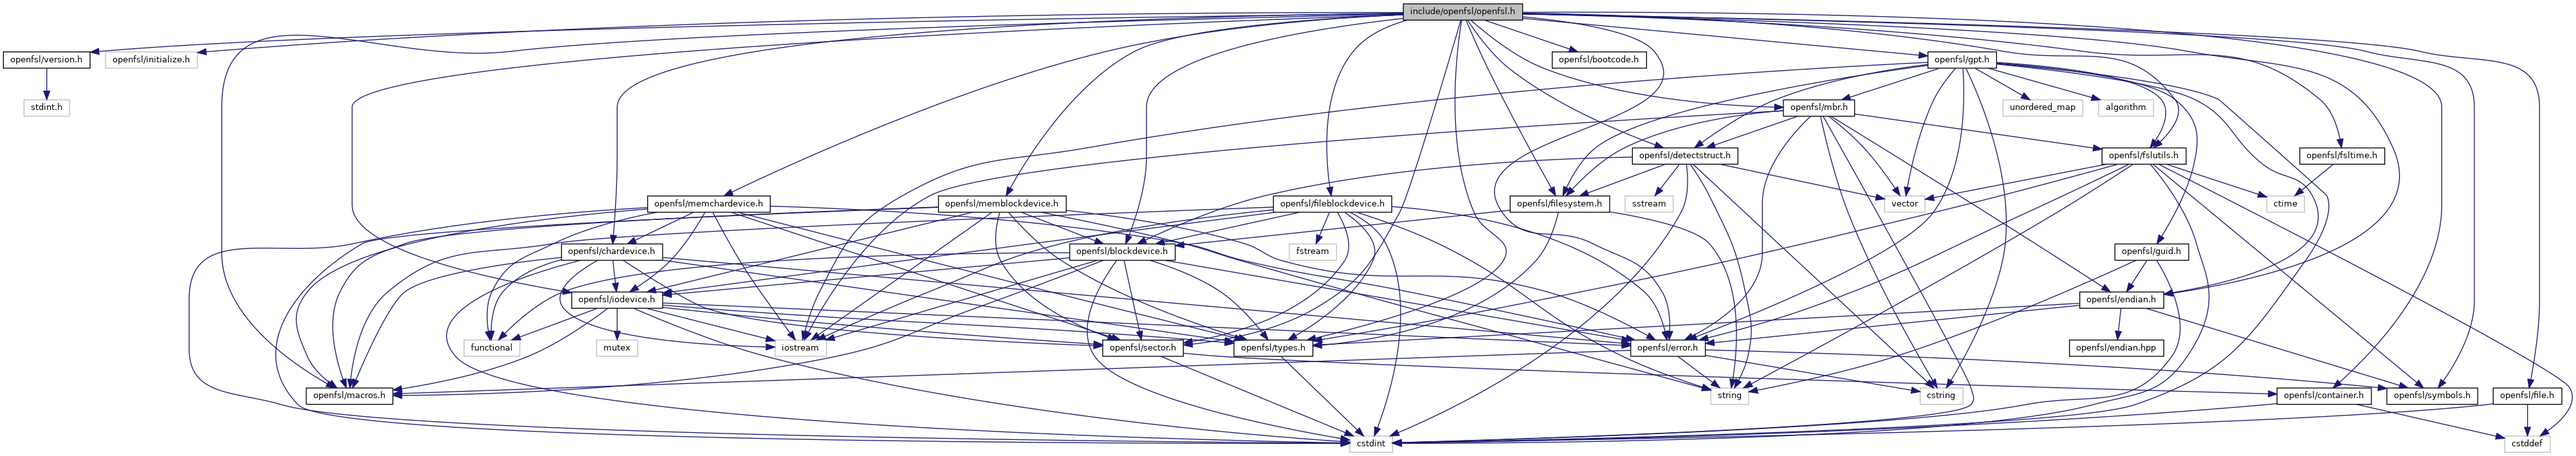
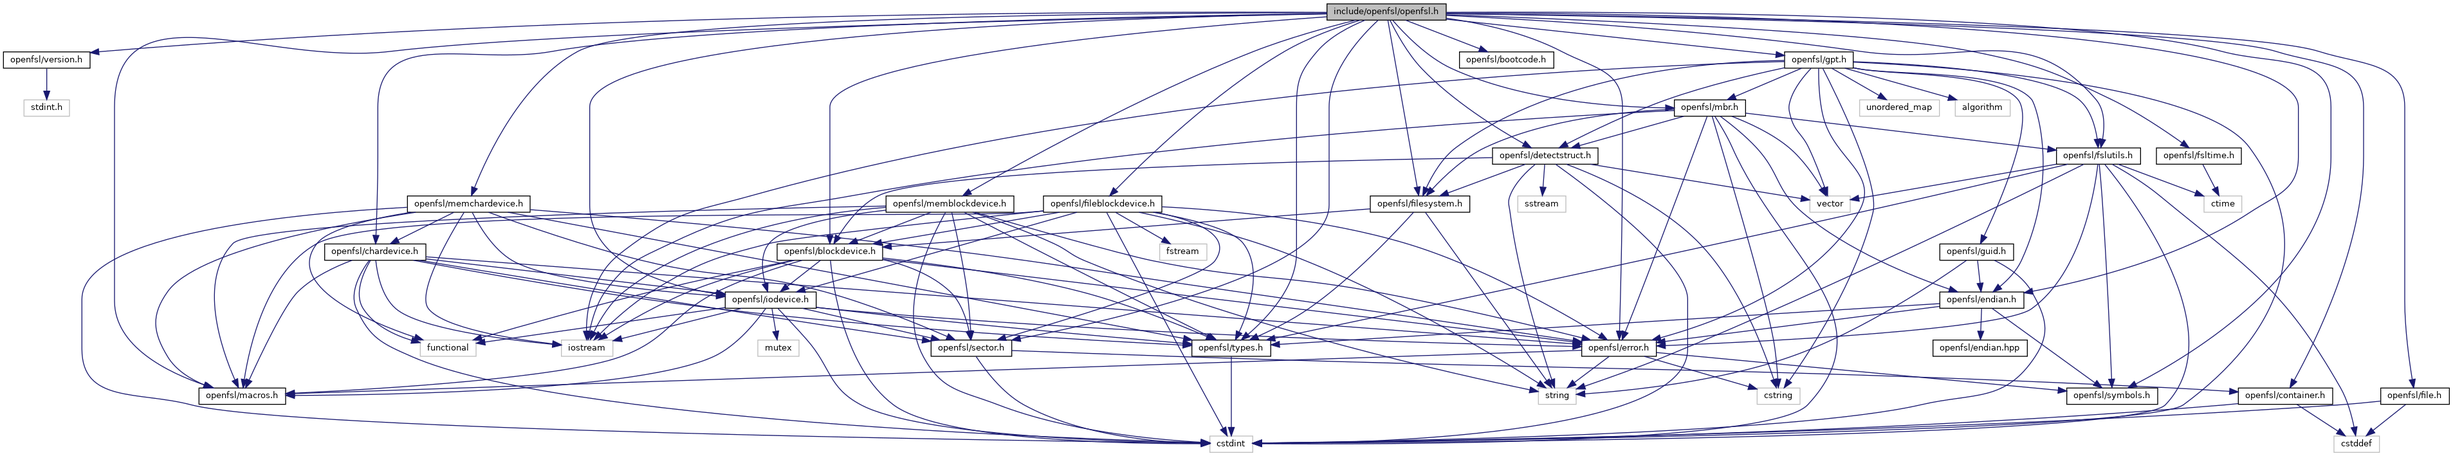
Deploying to html-docs from @ kms1212/OpenFSL@87007d5335cf3212a3e2a806a983f78076ea9c0f 🚀

diff --git a/openfsl_8h_source.html b/openfsl_8h_source.html
@@ -114,37 +114,36 @@ $(document).ready(function(){initNavTree('openfsl_8h_source.html',''); initResiz
 <div class="line"><a name="l00015"></a><span class="lineno">   15</span>&#160;<span class="preprocessor">#endif</span></div>
 <div class="line"><a name="l00016"></a><span class="lineno">   16</span>&#160; </div>
 <div class="line"><a name="l00017"></a><span class="lineno">   17</span>&#160;<span class="preprocessor">#include &quot;<a class="code" href="version_8h.html">openfsl/version.h</a>&quot;</span></div>
-<div class="line"><a name="l00018"></a><span class="lineno">   18</span>&#160;<span class="preprocessor">#include &quot;openfsl/initialize.h&quot;</span></div>
-<div class="line"><a name="l00019"></a><span class="lineno">   19</span>&#160; </div>
-<div class="line"><a name="l00020"></a><span class="lineno">   20</span>&#160;<span class="preprocessor">#include &quot;<a class="code" href="iodevice_8h.html">openfsl/iodevice.h</a>&quot;</span></div>
-<div class="line"><a name="l00021"></a><span class="lineno">   21</span>&#160;<span class="preprocessor">#include &quot;<a class="code" href="blockdevice_8h.html">openfsl/blockdevice.h</a>&quot;</span></div>
-<div class="line"><a name="l00022"></a><span class="lineno">   22</span>&#160;<span class="preprocessor">#include &quot;<a class="code" href="fileblockdevice_8h.html">openfsl/fileblockdevice.h</a>&quot;</span></div>
-<div class="line"><a name="l00023"></a><span class="lineno">   23</span>&#160;<span class="preprocessor">#include &quot;<a class="code" href="chardevice_8h.html">openfsl/chardevice.h</a>&quot;</span></div>
-<div class="line"><a name="l00024"></a><span class="lineno">   24</span>&#160;<span class="preprocessor">#include &quot;<a class="code" href="memchardevice_8h.html">openfsl/memchardevice.h</a>&quot;</span></div>
-<div class="line"><a name="l00025"></a><span class="lineno">   25</span>&#160;<span class="preprocessor">#include &quot;<a class="code" href="memblockdevice_8h.html">openfsl/memblockdevice.h</a>&quot;</span></div>
-<div class="line"><a name="l00026"></a><span class="lineno">   26</span>&#160; </div>
-<div class="line"><a name="l00027"></a><span class="lineno">   27</span>&#160;<span class="preprocessor">#include &quot;<a class="code" href="bootcode_8h.html">openfsl/bootcode.h</a>&quot;</span></div>
-<div class="line"><a name="l00028"></a><span class="lineno">   28</span>&#160; </div>
-<div class="line"><a name="l00029"></a><span class="lineno">   29</span>&#160;<span class="preprocessor">#include &quot;<a class="code" href="container_8h.html">openfsl/container.h</a>&quot;</span></div>
-<div class="line"><a name="l00030"></a><span class="lineno">   30</span>&#160;<span class="preprocessor">#include &quot;<a class="code" href="sector_8h.html">openfsl/sector.h</a>&quot;</span></div>
-<div class="line"><a name="l00031"></a><span class="lineno">   31</span>&#160; </div>
-<div class="line"><a name="l00032"></a><span class="lineno">   32</span>&#160;<span class="preprocessor">#include &quot;<a class="code" href="detectstruct_8h.html">openfsl/detectstruct.h</a>&quot;</span></div>
-<div class="line"><a name="l00033"></a><span class="lineno">   33</span>&#160;<span class="preprocessor">#include &quot;<a class="code" href="mbr_8h.html">openfsl/mbr.h</a>&quot;</span></div>
-<div class="line"><a name="l00034"></a><span class="lineno">   34</span>&#160;<span class="preprocessor">#include &quot;<a class="code" href="gpt_8h.html">openfsl/gpt.h</a>&quot;</span></div>
-<div class="line"><a name="l00035"></a><span class="lineno">   35</span>&#160; </div>
-<div class="line"><a name="l00036"></a><span class="lineno">   36</span>&#160;<span class="preprocessor">#include &quot;<a class="code" href="file_8h.html">openfsl/file.h</a>&quot;</span></div>
-<div class="line"><a name="l00037"></a><span class="lineno">   37</span>&#160;<span class="preprocessor">#include &quot;<a class="code" href="filesystem_8h.html">openfsl/filesystem.h</a>&quot;</span></div>
-<div class="line"><a name="l00038"></a><span class="lineno">   38</span>&#160; </div>
-<div class="line"><a name="l00039"></a><span class="lineno">   39</span>&#160;<span class="preprocessor">#include &quot;<a class="code" href="endian_8h.html">openfsl/endian.h</a>&quot;</span></div>
-<div class="line"><a name="l00040"></a><span class="lineno">   40</span>&#160;<span class="preprocessor">#include &quot;<a class="code" href="fsltime_8h.html">openfsl/fsltime.h</a>&quot;</span></div>
-<div class="line"><a name="l00041"></a><span class="lineno">   41</span>&#160;<span class="preprocessor">#include &quot;<a class="code" href="fslutils_8h.html">openfsl/fslutils.h</a>&quot;</span></div>
-<div class="line"><a name="l00042"></a><span class="lineno">   42</span>&#160; </div>
-<div class="line"><a name="l00043"></a><span class="lineno">   43</span>&#160;<span class="preprocessor">#include &quot;<a class="code" href="macros_8h.html">openfsl/macros.h</a>&quot;</span></div>
-<div class="line"><a name="l00044"></a><span class="lineno">   44</span>&#160;<span class="preprocessor">#include &quot;<a class="code" href="symbols_8h.html">openfsl/symbols.h</a>&quot;</span></div>
-<div class="line"><a name="l00045"></a><span class="lineno">   45</span>&#160;<span class="preprocessor">#include &quot;<a class="code" href="types_8h.html">openfsl/types.h</a>&quot;</span></div>
-<div class="line"><a name="l00046"></a><span class="lineno">   46</span>&#160;<span class="preprocessor">#include &quot;<a class="code" href="error_8h.html">openfsl/error.h</a>&quot;</span></div>
-<div class="line"><a name="l00047"></a><span class="lineno">   47</span>&#160; </div>
-<div class="line"><a name="l00048"></a><span class="lineno">   48</span>&#160;<span class="preprocessor">#endif  // OPENFSL_OPENFSL_H_</span></div>
+<div class="line"><a name="l00018"></a><span class="lineno">   18</span>&#160; </div>
+<div class="line"><a name="l00019"></a><span class="lineno">   19</span>&#160;<span class="preprocessor">#include &quot;<a class="code" href="iodevice_8h.html">openfsl/iodevice.h</a>&quot;</span></div>
+<div class="line"><a name="l00020"></a><span class="lineno">   20</span>&#160;<span class="preprocessor">#include &quot;<a class="code" href="blockdevice_8h.html">openfsl/blockdevice.h</a>&quot;</span></div>
+<div class="line"><a name="l00021"></a><span class="lineno">   21</span>&#160;<span class="preprocessor">#include &quot;<a class="code" href="fileblockdevice_8h.html">openfsl/fileblockdevice.h</a>&quot;</span></div>
+<div class="line"><a name="l00022"></a><span class="lineno">   22</span>&#160;<span class="preprocessor">#include &quot;<a class="code" href="chardevice_8h.html">openfsl/chardevice.h</a>&quot;</span></div>
+<div class="line"><a name="l00023"></a><span class="lineno">   23</span>&#160;<span class="preprocessor">#include &quot;<a class="code" href="memchardevice_8h.html">openfsl/memchardevice.h</a>&quot;</span></div>
+<div class="line"><a name="l00024"></a><span class="lineno">   24</span>&#160;<span class="preprocessor">#include &quot;<a class="code" href="memblockdevice_8h.html">openfsl/memblockdevice.h</a>&quot;</span></div>
+<div class="line"><a name="l00025"></a><span class="lineno">   25</span>&#160; </div>
+<div class="line"><a name="l00026"></a><span class="lineno">   26</span>&#160;<span class="preprocessor">#include &quot;<a class="code" href="bootcode_8h.html">openfsl/bootcode.h</a>&quot;</span></div>
+<div class="line"><a name="l00027"></a><span class="lineno">   27</span>&#160; </div>
+<div class="line"><a name="l00028"></a><span class="lineno">   28</span>&#160;<span class="preprocessor">#include &quot;<a class="code" href="container_8h.html">openfsl/container.h</a>&quot;</span></div>
+<div class="line"><a name="l00029"></a><span class="lineno">   29</span>&#160;<span class="preprocessor">#include &quot;<a class="code" href="sector_8h.html">openfsl/sector.h</a>&quot;</span></div>
+<div class="line"><a name="l00030"></a><span class="lineno">   30</span>&#160; </div>
+<div class="line"><a name="l00031"></a><span class="lineno">   31</span>&#160;<span class="preprocessor">#include &quot;<a class="code" href="detectstruct_8h.html">openfsl/detectstruct.h</a>&quot;</span></div>
+<div class="line"><a name="l00032"></a><span class="lineno">   32</span>&#160;<span class="preprocessor">#include &quot;<a class="code" href="mbr_8h.html">openfsl/mbr.h</a>&quot;</span></div>
+<div class="line"><a name="l00033"></a><span class="lineno">   33</span>&#160;<span class="preprocessor">#include &quot;<a class="code" href="gpt_8h.html">openfsl/gpt.h</a>&quot;</span></div>
+<div class="line"><a name="l00034"></a><span class="lineno">   34</span>&#160; </div>
+<div class="line"><a name="l00035"></a><span class="lineno">   35</span>&#160;<span class="preprocessor">#include &quot;<a class="code" href="file_8h.html">openfsl/file.h</a>&quot;</span></div>
+<div class="line"><a name="l00036"></a><span class="lineno">   36</span>&#160;<span class="preprocessor">#include &quot;<a class="code" href="filesystem_8h.html">openfsl/filesystem.h</a>&quot;</span></div>
+<div class="line"><a name="l00037"></a><span class="lineno">   37</span>&#160; </div>
+<div class="line"><a name="l00038"></a><span class="lineno">   38</span>&#160;<span class="preprocessor">#include &quot;<a class="code" href="endian_8h.html">openfsl/endian.h</a>&quot;</span></div>
+<div class="line"><a name="l00039"></a><span class="lineno">   39</span>&#160;<span class="preprocessor">#include &quot;<a class="code" href="fsltime_8h.html">openfsl/fsltime.h</a>&quot;</span></div>
+<div class="line"><a name="l00040"></a><span class="lineno">   40</span>&#160;<span class="preprocessor">#include &quot;<a class="code" href="fslutils_8h.html">openfsl/fslutils.h</a>&quot;</span></div>
+<div class="line"><a name="l00041"></a><span class="lineno">   41</span>&#160; </div>
+<div class="line"><a name="l00042"></a><span class="lineno">   42</span>&#160;<span class="preprocessor">#include &quot;<a class="code" href="macros_8h.html">openfsl/macros.h</a>&quot;</span></div>
+<div class="line"><a name="l00043"></a><span class="lineno">   43</span>&#160;<span class="preprocessor">#include &quot;<a class="code" href="symbols_8h.html">openfsl/symbols.h</a>&quot;</span></div>
+<div class="line"><a name="l00044"></a><span class="lineno">   44</span>&#160;<span class="preprocessor">#include &quot;<a class="code" href="types_8h.html">openfsl/types.h</a>&quot;</span></div>
+<div class="line"><a name="l00045"></a><span class="lineno">   45</span>&#160;<span class="preprocessor">#include &quot;<a class="code" href="error_8h.html">openfsl/error.h</a>&quot;</span></div>
+<div class="line"><a name="l00046"></a><span class="lineno">   46</span>&#160; </div>
+<div class="line"><a name="l00047"></a><span class="lineno">   47</span>&#160;<span class="preprocessor">#endif  // OPENFSL_OPENFSL_H_</span></div>
 </div><!-- fragment --></div><!-- contents -->
 </div><!-- doc-content -->
 <div class="ttc" id="achardevice_8h_html"><div class="ttname"><a href="chardevice_8h.html">chardevice.h</a></div></div>

diff --git a/openfsl_8h.html b/openfsl_8h.html
@@ -98,7 +98,6 @@ $(document).ready(function(){initNavTree('openfsl_8h.html',''); initResizable();
 </div><!--header-->
 <div class="contents">
 <div class="textblock"><code>#include &quot;<a class="el" href="version_8h_source.html">openfsl/version.h</a>&quot;</code><br />
-<code>#include &quot;openfsl/initialize.h&quot;</code><br />
 <code>#include &quot;<a class="el" href="iodevice_8h_source.html">openfsl/iodevice.h</a>&quot;</code><br />
 <code>#include &quot;<a class="el" href="blockdevice_8h_source.html">openfsl/blockdevice.h</a>&quot;</code><br />
 <code>#include &quot;<a class="el" href="fileblockdevice_8h_source.html">openfsl/fileblockdevice.h</a>&quot;</code><br />
@@ -125,46 +124,45 @@ Include dependency graph for openfsl.h:</div>
 <div class="dyncontent">
 <div class="center"><img src="openfsl_8h__incl.png" border="0" usemap="#include_2openfsl_2openfsl_8h" alt=""/></div>
 <map name="include_2openfsl_2openfsl_8h" id="include_2openfsl_2openfsl_8h">
-<area shape="rect" title=" " alt="" coords="2181,5,2367,32"/>
+<area shape="rect" title=" " alt="" coords="2063,5,2248,32"/>
 <area shape="rect" href="version_8h.html" title=" " alt="" coords="5,80,140,107"/>
-<area shape="rect" title=" " alt="" coords="164,80,307,107"/>
-<area shape="rect" href="iodevice_8h.html" title=" " alt="" coords="889,453,1030,480"/>
-<area shape="rect" href="error_8h.html" title=" " alt="" coords="2535,528,2651,555"/>
-<area shape="rect" href="macros_8h.html" title=" " alt="" coords="476,603,611,629"/>
-<area shape="rect" href="symbols_8h.html" title=" " alt="" coords="3710,603,3851,629"/>
-<area shape="rect" href="types_8h.html" title=" " alt="" coords="1918,528,2041,555"/>
-<area shape="rect" href="sector_8h.html" title=" " alt="" coords="1714,528,1839,555"/>
-<area shape="rect" href="container_8h.html" title=" " alt="" coords="3539,603,3686,629"/>
-<area shape="rect" href="blockdevice_8h.html" title=" " alt="" coords="1663,379,1827,405"/>
-<area shape="rect" href="fileblockdevice_8h.html" title=" " alt="" coords="1979,304,2163,331"/>
-<area shape="rect" href="chardevice_8h.html" title=" " alt="" coords="873,379,1030,405"/>
-<area shape="rect" href="memchardevice_8h.html" title=" " alt="" coords="1007,304,1197,331"/>
-<area shape="rect" href="memblockdevice_8h.html" title=" " alt="" coords="1459,304,1657,331"/>
-<area shape="rect" href="bootcode_8h.html" title=" " alt="" coords="2413,80,2559,107"/>
-<area shape="rect" href="detectstruct_8h.html" title=" " alt="" coords="2537,229,2701,256"/>
-<area shape="rect" href="filesystem_8h.html" title=" " alt="" coords="2347,304,2502,331"/>
-<area shape="rect" href="mbr_8h.html" title=" " alt="" coords="2772,155,2883,181"/>
-<area shape="rect" href="fslutils_8h.html" title=" " alt="" coords="3267,229,3398,256"/>
-<area shape="rect" href="endian_8h.html" title=" " alt="" coords="3233,453,3363,480"/>
-<area shape="rect" href="gpt_8h.html" title=" " alt="" coords="2997,80,3103,107"/>
-<area shape="rect" href="file_8h.html" title=" " alt="" coords="3875,603,3982,629"/>
-<area shape="rect" href="fsltime_8h.html" title=" " alt="" coords="3575,229,3707,256"/>
+<area shape="rect" href="iodevice_8h.html" title=" " alt="" coords="1127,453,1269,480"/>
+<area shape="rect" href="error_8h.html" title=" " alt="" coords="2459,528,2575,555"/>
+<area shape="rect" href="macros_8h.html" title=" " alt="" coords="309,603,444,629"/>
+<area shape="rect" href="symbols_8h.html" title=" " alt="" coords="3213,603,3354,629"/>
+<area shape="rect" href="types_8h.html" title=" " alt="" coords="1853,528,1975,555"/>
+<area shape="rect" href="sector_8h.html" title=" " alt="" coords="1447,528,1573,555"/>
+<area shape="rect" href="container_8h.html" title=" " alt="" coords="3479,603,3626,629"/>
+<area shape="rect" href="blockdevice_8h.html" title=" " alt="" coords="1208,379,1372,405"/>
+<area shape="rect" href="fileblockdevice_8h.html" title=" " alt="" coords="1622,304,1806,331"/>
+<area shape="rect" href="chardevice_8h.html" title=" " alt="" coords="505,379,662,405"/>
+<area shape="rect" href="memchardevice_8h.html" title=" " alt="" coords="633,304,824,331"/>
+<area shape="rect" href="memblockdevice_8h.html" title=" " alt="" coords="1377,304,1576,331"/>
+<area shape="rect" href="bootcode_8h.html" title=" " alt="" coords="2269,80,2415,107"/>
+<area shape="rect" href="detectstruct_8h.html" title=" " alt="" coords="2320,229,2484,256"/>
+<area shape="rect" href="filesystem_8h.html" title=" " alt="" coords="2130,304,2285,331"/>
+<area shape="rect" href="mbr_8h.html" title=" " alt="" coords="2603,155,2713,181"/>
+<area shape="rect" href="fslutils_8h.html" title=" " alt="" coords="3197,229,3327,256"/>
+<area shape="rect" href="endian_8h.html" title=" " alt="" coords="3015,453,3146,480"/>
+<area shape="rect" href="gpt_8h.html" title=" " alt="" coords="2774,80,2881,107"/>
+<area shape="rect" href="file_8h.html" title=" " alt="" coords="3701,603,3807,629"/>
+<area shape="rect" href="fsltime_8h.html" title=" " alt="" coords="3352,229,3484,256"/>
 <area shape="rect" title=" " alt="" coords="37,155,108,181"/>
-<area shape="rect" title=" " alt="" coords="2098,677,2165,704"/>
-<area shape="rect" title=" " alt="" coords="1205,528,1285,555"/>
-<area shape="rect" title=" " alt="" coords="721,528,808,555"/>
-<area shape="rect" title=" " alt="" coords="927,528,991,555"/>
-<area shape="rect" title=" " alt="" coords="2985,603,3051,629"/>
-<area shape="rect" title=" " alt="" coords="2659,603,2718,629"/>
-<area shape="rect" title=" " alt="" coords="3893,677,3964,704"/>
-<area shape="rect" title=" " alt="" coords="2004,379,2077,405"/>
-<area shape="rect" title=" " alt="" coords="2929,304,2992,331"/>
-<area shape="rect" title=" " alt="" coords="2526,304,2601,331"/>
-<area shape="rect" title=" " alt="" coords="3523,304,3582,331"/>
-<area shape="rect" href="endian_8hpp.html" title=" " alt="" coords="3217,528,3363,555"/>
-<area shape="rect" title=" " alt="" coords="3113,155,3237,181"/>
-<area shape="rect" title=" " alt="" coords="3262,155,3347,181"/>
-<area shape="rect" href="guid_8h.html" title=" " alt="" coords="3287,379,3402,405"/>
+<area shape="rect" title=" " alt="" coords="1881,677,1947,704"/>
+<area shape="rect" title=" " alt="" coords="873,528,953,555"/>
+<area shape="rect" title=" " alt="" coords="653,528,740,555"/>
+<area shape="rect" title=" " alt="" coords="1178,528,1242,555"/>
+<area shape="rect" title=" " alt="" coords="2731,603,2798,629"/>
+<area shape="rect" title=" " alt="" coords="2391,603,2450,629"/>
+<area shape="rect" title=" " alt="" coords="3628,677,3699,704"/>
+<area shape="rect" title=" " alt="" coords="1803,379,1876,405"/>
+<area shape="rect" title=" " alt="" coords="2813,304,2876,331"/>
+<area shape="rect" title=" " alt="" coords="2359,304,2434,331"/>
+<area shape="rect" title=" " alt="" coords="3426,304,3485,331"/>
+<area shape="rect" href="endian_8hpp.html" title=" " alt="" coords="3005,528,3151,555"/>
+<area shape="rect" title=" " alt="" coords="2891,155,3015,181"/>
+<area shape="rect" title=" " alt="" coords="3039,155,3125,181"/>
+<area shape="rect" href="guid_8h.html" title=" " alt="" coords="3015,379,3130,405"/>
 </map>
 </div>
 </div>
